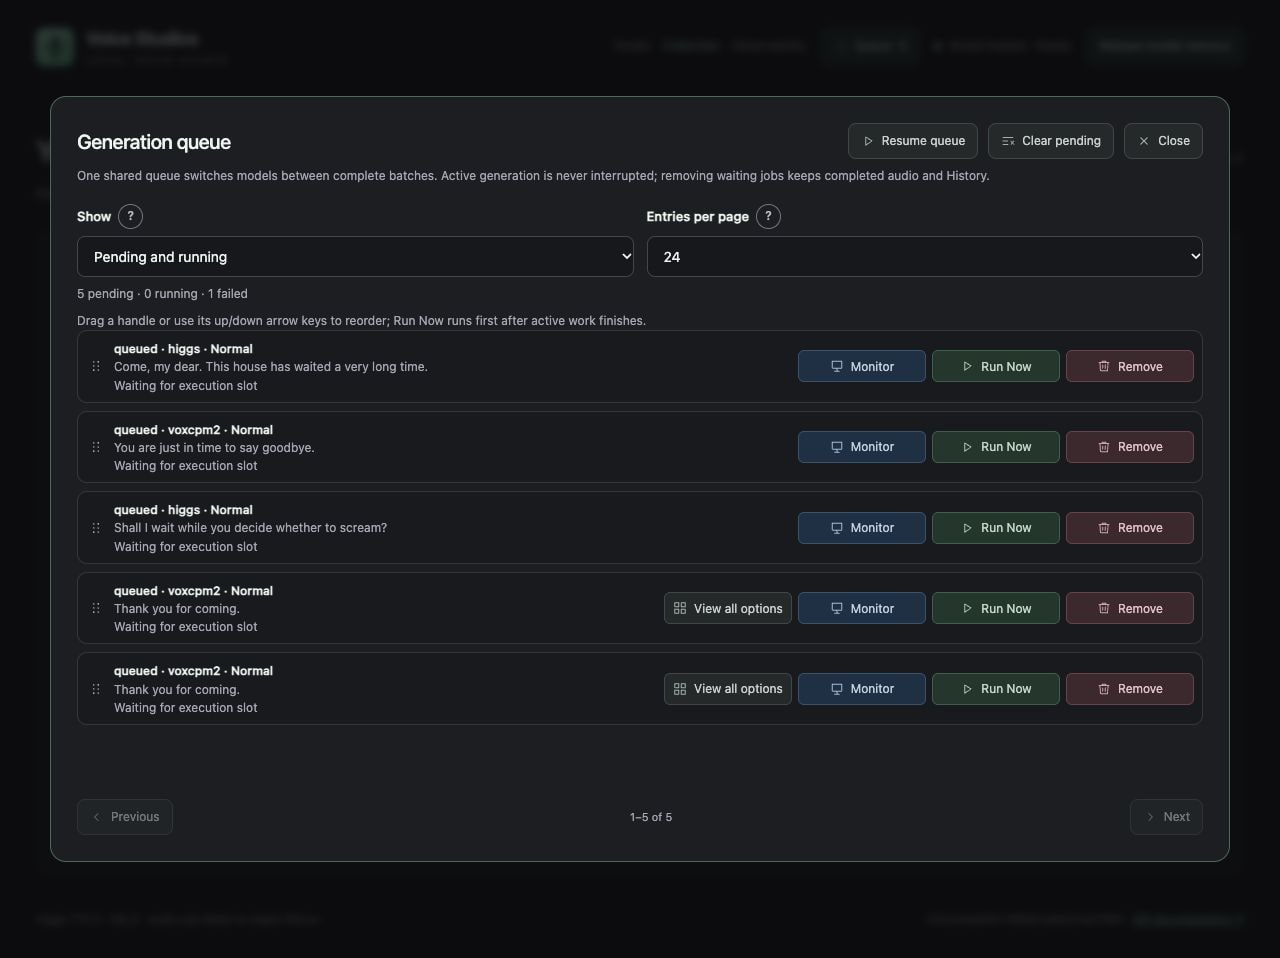
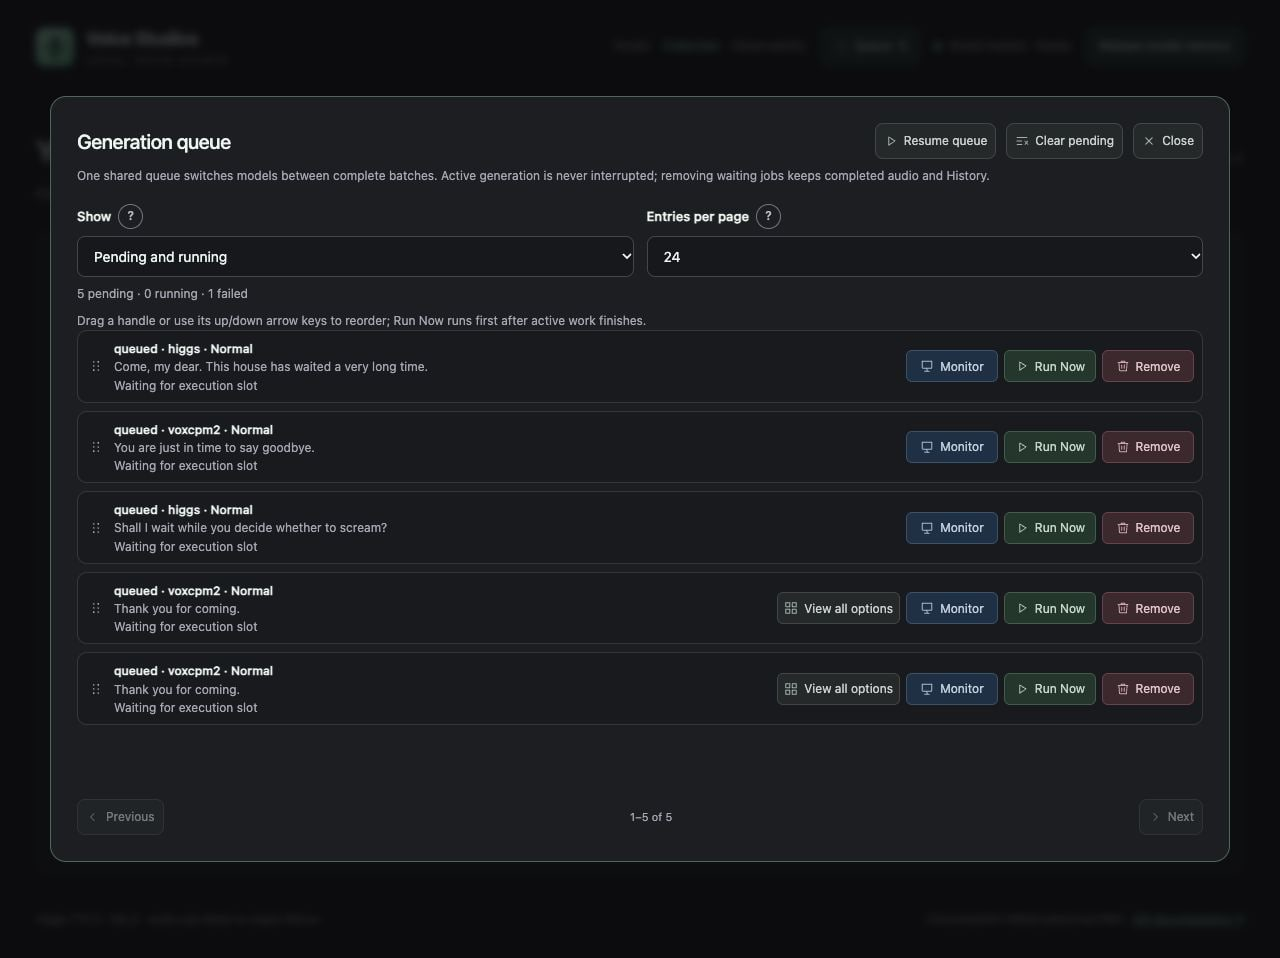
Reduce queue button width and horizontal spacing

diff --git a/ui/index.html b/ui/index.html
@@ -32,11 +32,11 @@ html[data-page="collection"] #cards{max-height:none;grid-template-columns:repeat
 .queue-entry-content p,.queue-entry-content .hint{margin:2px 0 0;line-height:1.35}
 .queue-entry-content .error{padding:6px}
 .queue-actions{grid-column:3;margin:0;gap:6px;flex-direction:row;align-items:center;justify-content:flex-end;flex-wrap:nowrap}
-.queue-dialog .secondary{display:inline-flex;align-items:center;justify-content:center;gap:7px;border-color:#414747;background:#25292a;color:#cbd1ce}
+.queue-dialog .secondary{display:inline-flex;align-items:center;justify-content:center;gap:6px;padding:8px;border-color:#414747;background:#25292a;color:#cbd1ce}
 .queue-dialog .secondary:hover:not(:disabled){border-color:#59625f;background:#2e3433;color:#edf2ef}
 .queue-icon{width:14px;height:14px;flex:none;display:block;color:#a4afaa}
 #open-queue{display:inline-flex;align-items:center;gap:7px}
-.queue-actions .secondary{flex:0 0 128px;width:128px;height:32px;padding:2px 6px;border-radius:6px;line-height:1.1;text-align:center}
+.queue-actions .secondary{flex:0 0 auto;width:auto;min-width:92px;height:32px;padding:2px 6px;gap:6px;border-radius:6px;line-height:1.1;text-align:center;white-space:nowrap}
 .queue-actions .secondary span{min-width:0}
 .queue-actions .queue-monitor{background:#203044;border-color:#3a526c;color:#c1d1e0}
 .queue-actions .queue-monitor:hover:not(:disabled){background:#293d54;border-color:#536f8c;color:#dce8f4}
@@ -53,7 +53,7 @@ html[data-page="collection"] #cards{max-height:none;grid-template-columns:repeat
 .queue-entry[data-drop]:before{content:"";position:absolute;left:0;right:0;height:3px;border-radius:3px;background:var(--accent);pointer-events:none}
 .queue-entry[data-drop=before]:before{top:0}.queue-entry[data-drop=after]:before{bottom:0}
 .queue-dialog .library-filters .help-label-row{margin-top:0}
-@media(max-width:720px){.queue-entry{grid-template-columns:20px minmax(0,1fr)}.queue-actions{grid-column:2;width:100%;flex-wrap:wrap}.queue-actions .secondary{flex-basis:calc((100% - 12px) / 3);width:calc((100% - 12px) / 3);max-width:128px;font-size:11px;gap:5px;padding:2px 4px}}
+@media(max-width:720px){.queue-entry{grid-template-columns:20px minmax(0,1fr)}.queue-actions{grid-column:2;width:100%;flex-wrap:wrap}.queue-actions .secondary{min-width:0;font-size:11px;gap:5px;padding:2px 5px}}
 
 .expansion-switch{display:flex;align-items:center;justify-content:space-between;gap:12px}.expansion-switch input{appearance:none;flex:none;width:42px;height:24px;padding:2px;border-radius:20px;background:var(--line);cursor:pointer}.expansion-switch input:before{content:"";display:block;width:18px;height:18px;border-radius:50%;background:var(--muted);transition:transform .15s}.expansion-switch input:checked{background:var(--accent);border-color:var(--accent)}.expansion-switch input:checked:before{transform:translateX(17px);background:#173321}.expansion-switch input:disabled{opacity:.5;cursor:default}@media(prefers-reduced-motion:reduce){.expansion-switch input:before{transition:none}}
 .expansion-details{margin-top:16px;padding:14px;border:1px solid var(--line);border-radius:9px;background:#191a1d}.expansion-details>summary{cursor:pointer;color:var(--accent);font-weight:550}.expanded-guidance{color:var(--muted);white-space:pre-wrap;overflow-wrap:anywhere;font-size:13px;line-height:1.65}.expansion-content details{font-size:12px;color:var(--muted)}

diff --git a/AGENTS.md b/AGENTS.md
@@ -45,4 +45,4 @@ Use isolated project-local test state and benign media fixtures. Preserve pre-ex
 
 Keep the browser brand **Voice Studios** and the shared `ui/icon.svg` consistent across Studio, Collection and Observability. Model selection changes controls and status, never the header brand or app title. The PNG phone icon and ICO favicon are raster versions of that SVG.
 
-Queue actions use decorative local SVG icons with visible text labels. Keep Monitor blue, Run Now green and Remove red, using subdued opaque fills rather than bright colors or grey replacements. Other queue controls stay neutral. Keep row actions equally sized and right aligned; preserve icons when pause/resume labels update.
+Queue actions use decorative local SVG icons with visible text labels. Keep Monitor blue, Run Now green and Remove red, using subdued opaque fills rather than bright colors or grey replacements. Other queue controls stay neutral. Keep the primary row actions compact, equally sized and right aligned; longer utility labels fit their content without excessive horizontal space. Preserve icons when pause/resume labels update.
